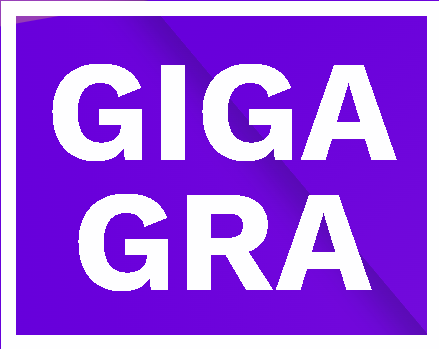
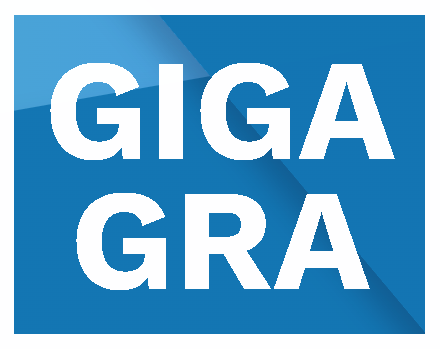
christmas update strony

diff --git a/css/style.min.css b/css/style.min.css
@@ -1,14 +1,13 @@
-/*
- * Roxy: Bootstrap template by GettTemplates.com
- * https://gettemplates.co/roxy
- */
+
 html, body {
   width: 100%;
   overflow-x: hidden; }
 
 body {
   font-family: 'Lato', sans-serif;
-  font-weight: 300; }
+  font-weight: 300;
+ }
+
 
 h1,
 h2,
@@ -26,7 +25,7 @@ h6,
   margin-top: 0; }
 
 a {
-  color: #ff00cc;
+  color: #90E0EF;
   transition: all .3s ease-in-out; }
 
 a:focus,
@@ -118,9 +117,9 @@ section {
     right: 0;
     background: #ff00cc;
     /* fallback for old browsers */
-    background: -webkit-linear-gradient(to right, #333399, #ff00cc);
+    background: -webkit-linear-gradient(to right, #0077B6, #007bff);
     /* Chrome 10-25, Safari 5.1-6 */
-    background: linear-gradient(to right, #333399, #ff00cc);
+    background: linear-gradient(to right, #17a2b8, #007bff);
     /* W3C, IE 10+/ Edge, Firefox 16+, Chrome 26+, Opera 12+, Safari 7+ */ }
   .jumbotron h1 {
     line-height: .9;
@@ -147,11 +146,11 @@ section {
     bottom: 0;
     left: 0;
     right: 0;
-    background: #ff00cc;
+    background: #00B4D8;
     /* fallback for old browsers */
-    background: -webkit-linear-gradient(to right, #333399, #ff00cc);
+    background: -webkit-linear-gradient(to right, #00B4D8, #0077B6);
     /* Chrome 10-25, Safari 5.1-6 */
-    background: linear-gradient(to right, #333399, #ff00cc);
+    background: linear-gradient(to right, #00B4D8, #0077B6);
     /* W3C, IE 10+/ Edge, Firefox 16+, Chrome 26+, Opera 12+, Safari 7+ */ }
   .overlay.bg-white {
     color: #000; }
@@ -228,9 +227,9 @@ section {
 
   .btnn-outline-primary {
     color: #fff;
-    background-color: #ff00cc;
+    background-color: #17a2b8;
     background-image: none;
-    border-color: #ff00cc; }
+    border-color: #007bff; }
     .btnn-outline-primary:hover {
       background-color: #333399;
       border-color: #333399;
@@ -257,11 +256,11 @@ section {
 =            FORM RECTANGLE ETC            =
 ==========================================*/
 .rectangle-1 {
-  width: 2000px;
+  width: 3000px;
   height: 400px;
   background: #8E2DE2;
   background: -webkit-linear-gradient(to right, #4A00E0, #8E2DE2);
-  background: linear-gradient(to right, #4A00E0, #8E2DE2);
+  background: linear-gradient(to right, #0077B6, #0077B6);
   transform-origin: 50% 150% 0;
   position: absolute;
   left: 0;
@@ -272,8 +271,8 @@ section {
   width: 2000px;
   height: 400px;
   background: #8E2DE2;
-  background: -webkit-linear-gradient(to right, #4A00E0, #8E2DE2);
-  background: linear-gradient(to right, #4A00E0, #8E2DE2);
+  background: -webkit-linear-gradient(to right, #90E0EF, #90E0EF);
+  background: linear-gradient(to right, #0077B6, #0077B6);
   transform-origin: 65% 100% 0;
   position: absolute;
   right: 0;
@@ -311,6 +310,11 @@ section {
   to {
     opacity: 1;
     transform: translateY(0); } }
+
+
+
+
+
 
 .rectangle-1 {
   opacity: 0;
@@ -781,9 +785,9 @@ section {
     width: 100%;
     background: #ff00cc;
     /* fallback for old browsers */
-    background: -webkit-linear-gradient(to right, #333399, #ff00cc);
+    background: -webkit-linear-gradient(to right, #17a2b8, #007bff);
     /* Chrome 10-25, Safari 5.1-6 */
-    background: linear-gradient(to right, #333399, #ff00cc);
+    background: linear-gradient(to right, #17a2b8, #007bff);
     /* W3C, IE 10+/ Edge, Firefox 16+, Chrome 26+, Opera 12+, Safari 7+ */
     z-index: 11; }
   #header-navbar {

diff --git a/index.html b/index.html
@@ -2,10 +2,6 @@
 <html lang="pl">
 
 <head>
-    <!--
-     - Roxy: Bootstrap template by GettTemplates.com
-     - https://gettemplates.co/roxy
-    -->
     <meta charset="utf-8">
     <meta http-equiv="X-UA-Compatible" content="IE=edge">
     <title>Gigagra</title>
@@ -226,29 +222,7 @@
                     <!-- End of Section Title -->
                 </div>
                 <!-- Client Holder -->
-                <div class="col-md-12 client-holder">
-                    <div class="client-slider owl-carousel">
-                        <div class="client-item">
-                            <img class="img-responsive" src="img/client.png" alt=" ">
-                        </div>
-                        <div class="client-item">
-                            <img class="img-responsive" src="img/client.png" alt=" ">
-                        </div>
-                        <div class="client-item">
-                            <img class="img-responsive" src="img/client.png" alt=" ">
-                        </div>
-                        <div class="client-item">
-                            <img class="img-responsive" src="img/client.png" alt=" ">
-                        </div>
-                        <div class="client-item">
-                            <img class="img-responsive" src="img/client.png" alt=" ">
-                        </div>
-                        <div class="client-item">
-                            <img class="img-responsive" src="img/client.png" alt=" ">
-                        </div>
-                    </div>
-                    <!-- End of Client Holder -->
-                </div>
+                
             </div>
         </div>
 </section>
